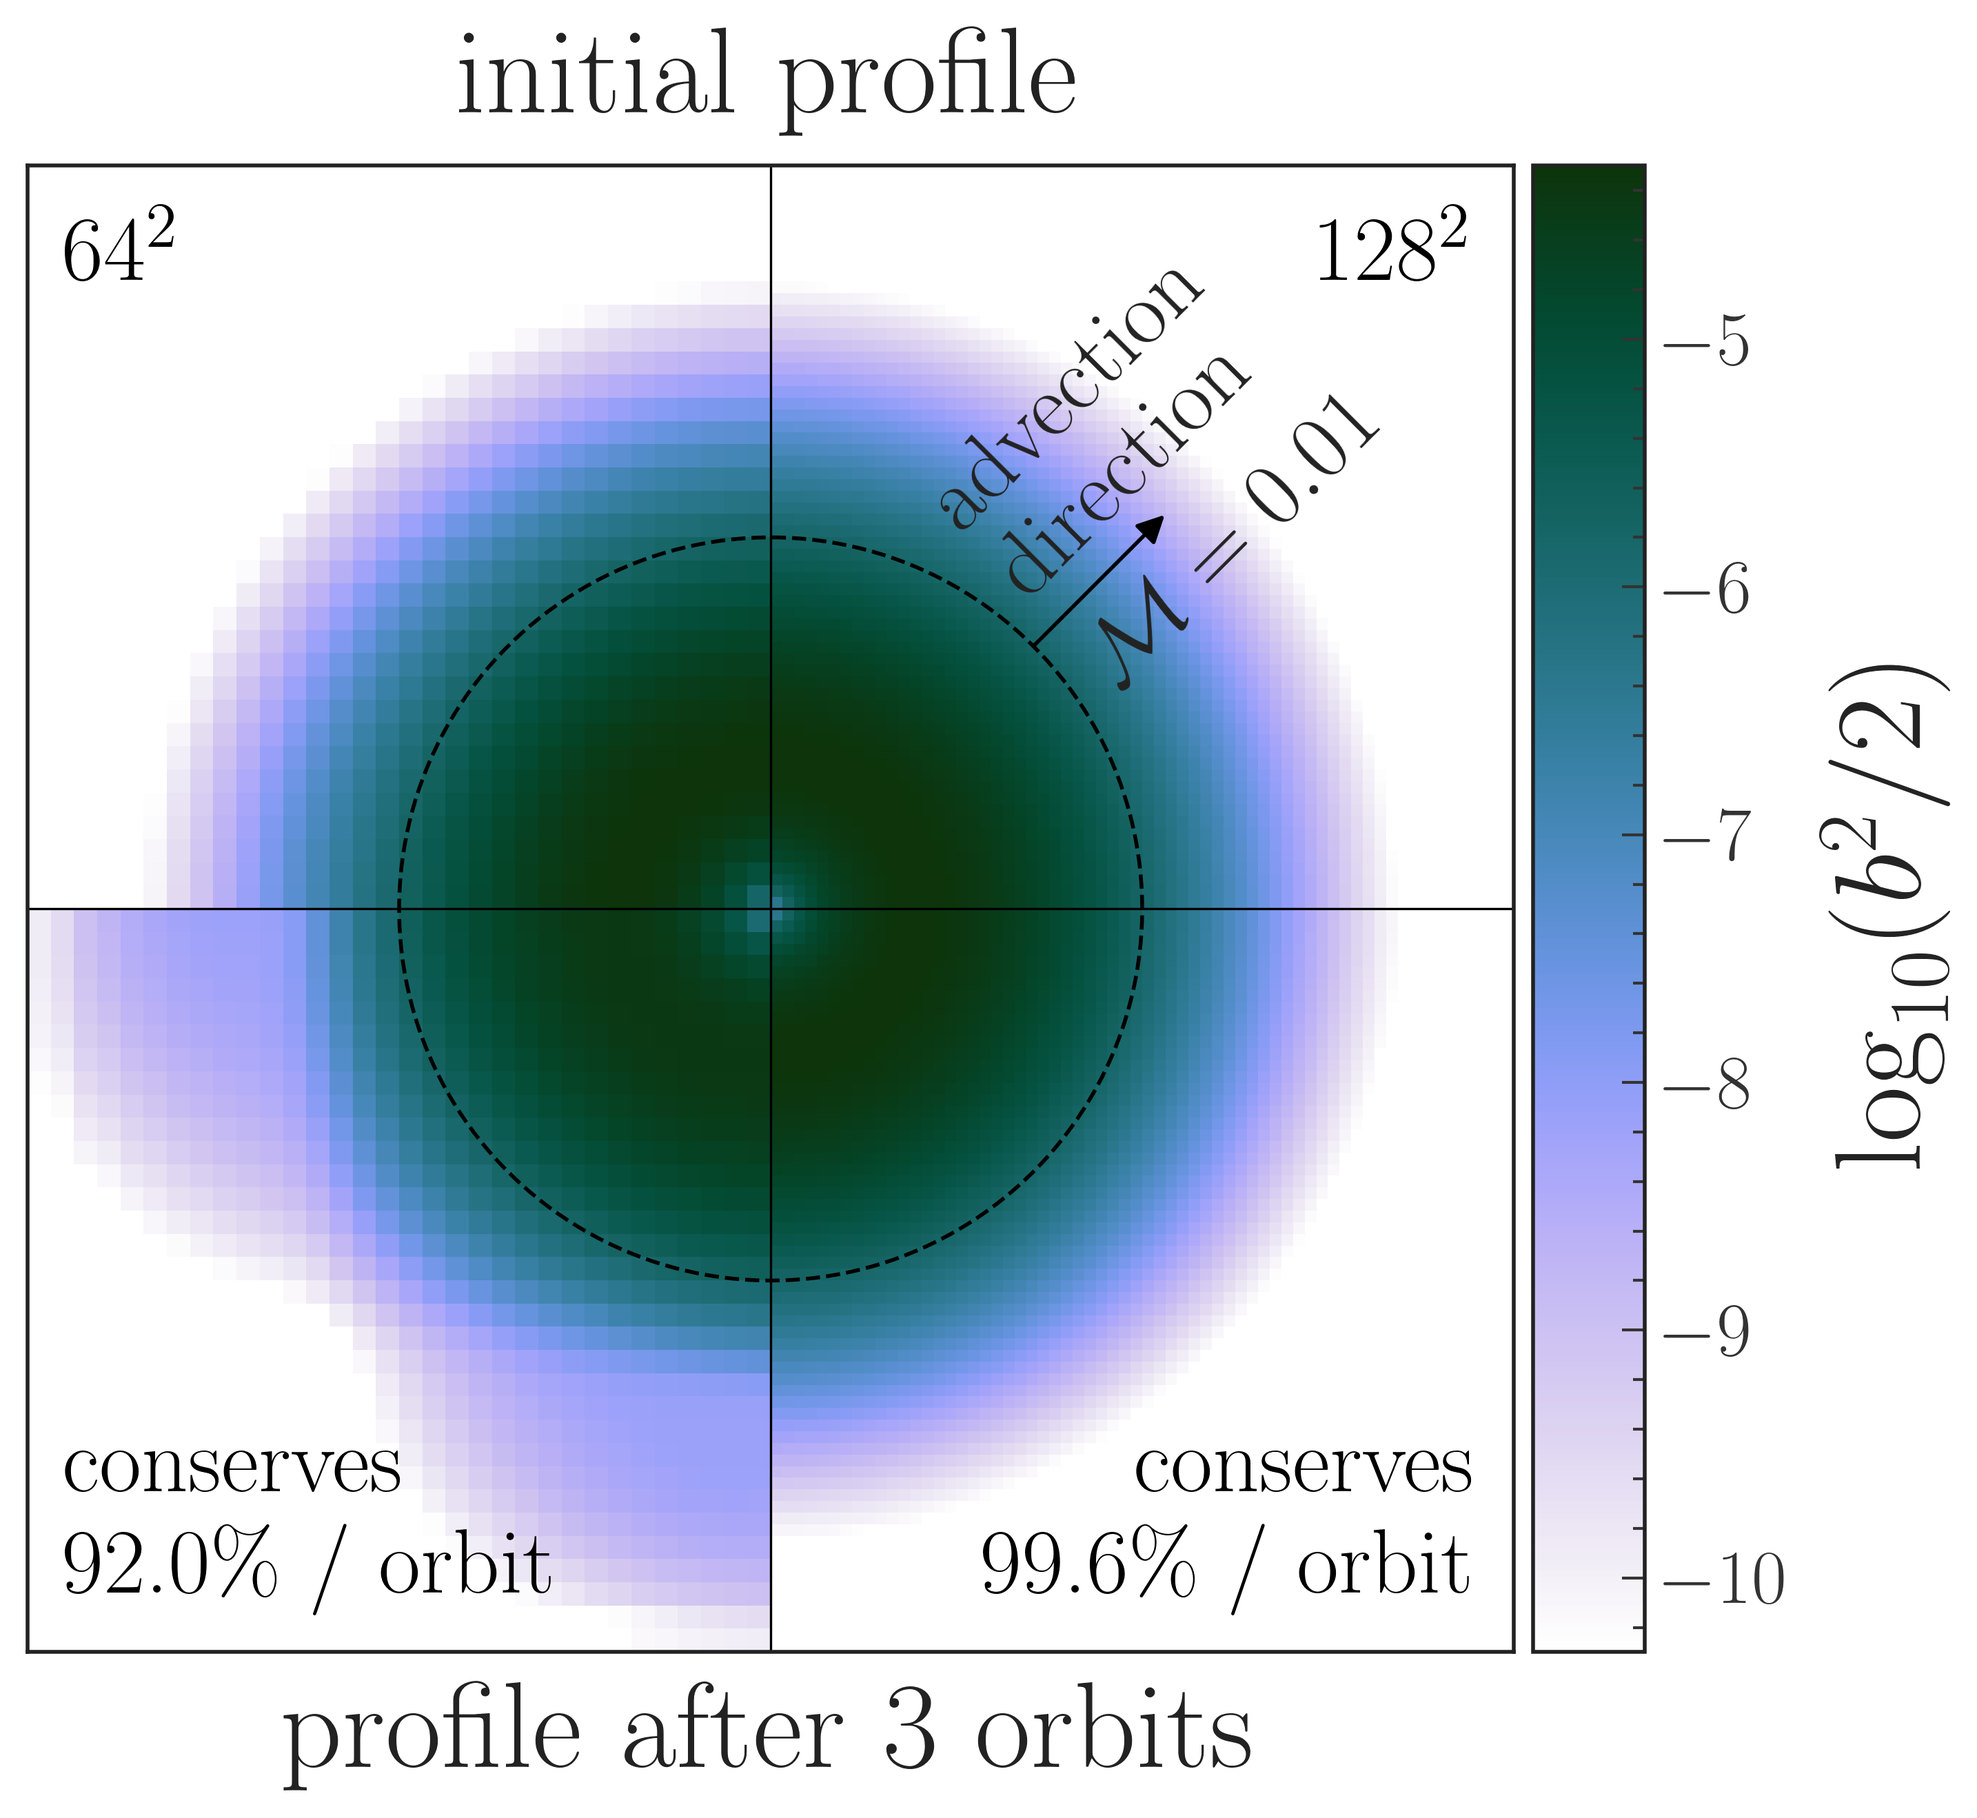
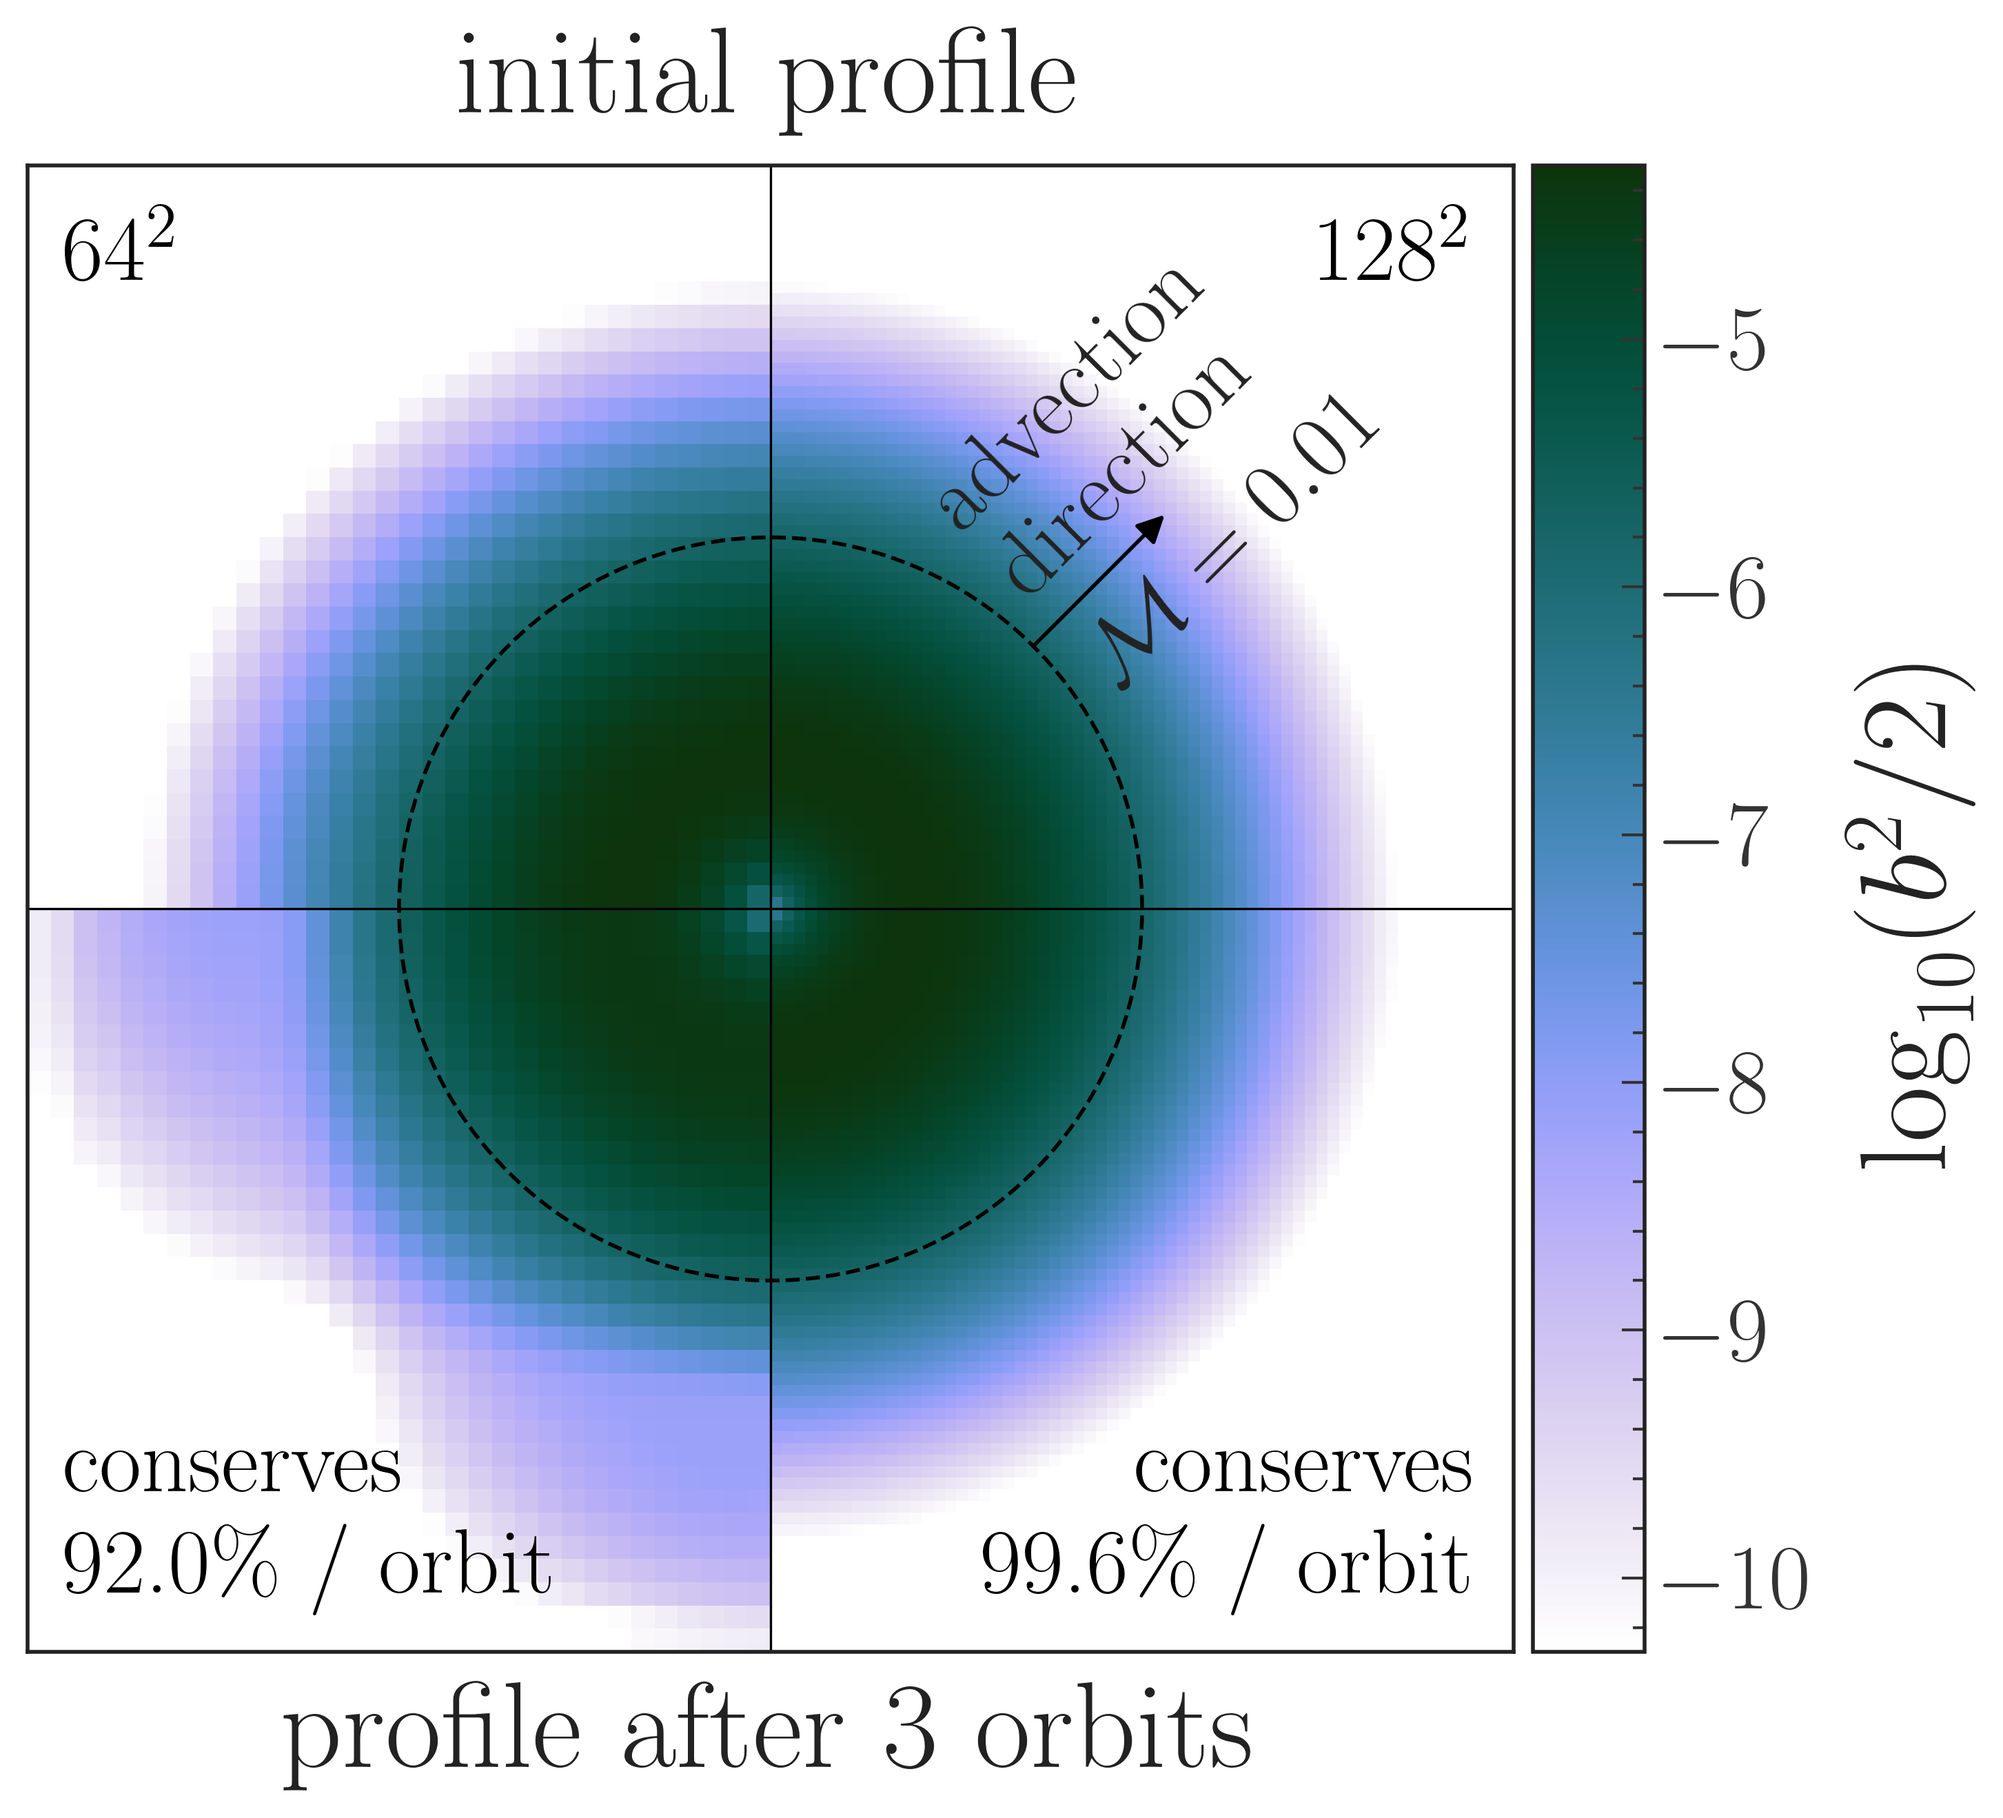
update-content(plot_resolution_comparison.py): enlarge cbar tick label size.

diff --git a/scripts/problems/balsara-vortex/plot_resolution_comparison.py b/scripts/problems/balsara-vortex/plot_resolution_comparison.py
@@ -130,12 +130,12 @@ def estimate_energy_conservation_per_orbit(
     Energy loss compounds geometrically orbit-to-orbit, so the per-orbit rate is the `NUM_ORBITS`-th
     root of the total retained fraction, not that total fraction divided by `NUM_ORBITS`.
     """
-    vi_path = data_dir / DATASET_TIME_NAME
-    with vi_path.open() as file:
-        vi_data = json.load(file)
-    vi_values = vi_data["vi_values"]
-    total_retention_fraction = vi_values[-1] / vi_values[0]
-    return total_retention_fraction**(1.0 / NUM_ORBITS)
+    data_path = data_dir / DATASET_TIME_NAME
+    with data_path.open() as file:
+        dataset = json.load(file)
+    dataset_values = dataset["vi_values"]
+    energy_conservation_fraction = dataset_values[-1] / dataset_values[0]
+    return energy_conservation_fraction**(1.0 / NUM_ORBITS)
 
 
 def plot_slice_quadrants(
@@ -356,7 +356,7 @@ def main() -> None:
         ),
         value_range=VALUE_RANGE,
     )
-    add_color.add_colorbar(
+    cbar = add_color.add_colorbar(
         ax=ax,
         palette=palette,
         label=r"$\log_{10}(b^2 / 2)$",
@@ -364,6 +364,7 @@ def main() -> None:
         label_size=32,
         label_pad=24.0,
     )
+    cbar.ax.tick_params(labelsize=24)
     manage_plots.save_figure(
         fig=fig,
         fig_path=FIGURE_PATH,
